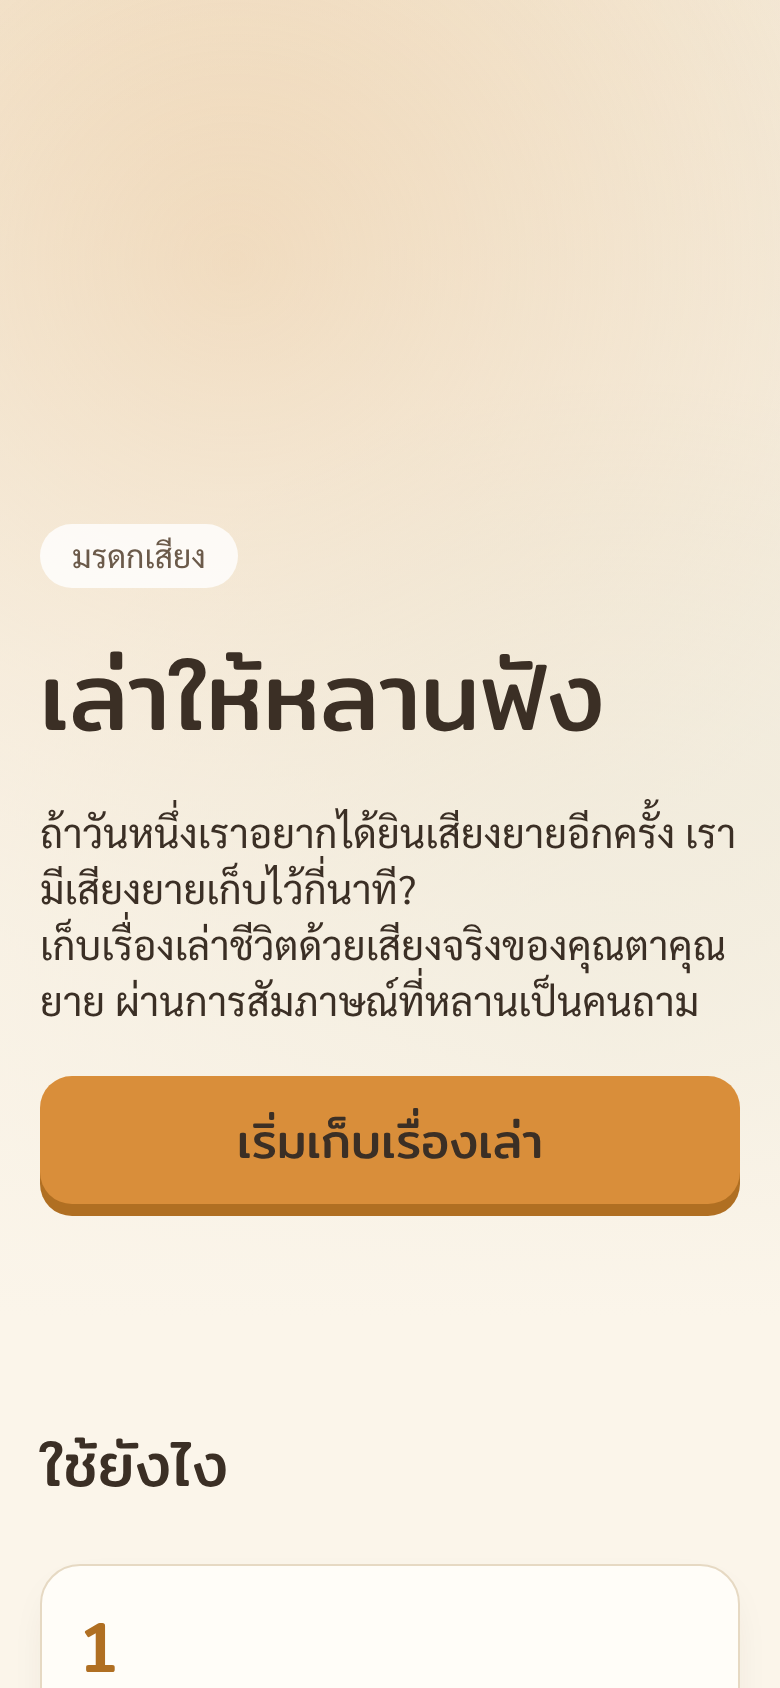
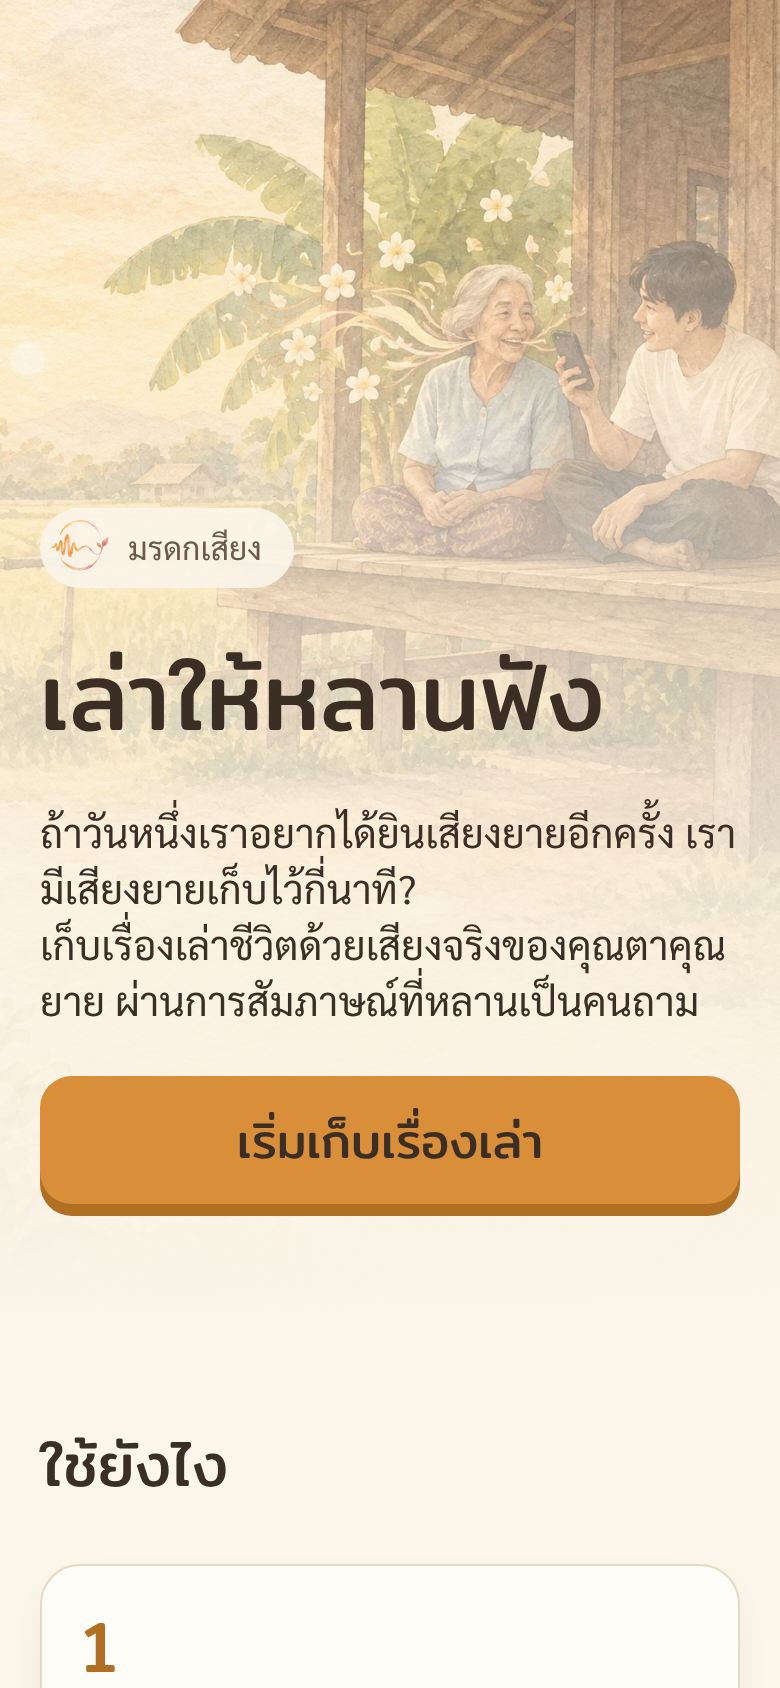
feat: remaining artwork — book cover and all chapter covers; refresh README screenshots

Changed region(s): [[0.0, 0.0, 1.0, 0.4929], [0.0923, 0.0, 0.1231, 0.0308]]

diff --git a/app/b/[token]/BookClient.tsx b/app/b/[token]/BookClient.tsx
@@ -61,7 +61,7 @@ export function BookClient({ book, token, link, qr }: { book: Book; token: strin
   return (
     <main className="pb-16">
       <header className="relative isolate overflow-hidden">
-        <Art src="/art/book-cover.webp" className="!absolute inset-0 -z-10 opacity-60" />
+        <Art src="/art/book-cover.webp" className="!absolute inset-0 -z-10 opacity-60" imgClassName="object-[70%_50%]" />
         <div className="absolute inset-0 -z-10 bg-gradient-to-b from-paper/20 to-paper" />
         <div className="mx-auto flex max-w-2xl flex-col items-center gap-5 px-5 pb-10 pt-16 text-center">
           {storyteller.hasPhoto ? (

diff --git a/README.md b/README.md
@@ -5,9 +5,9 @@
 **Live:** https://moradoksiang.kamnuantech.com (หรือ `มรดกเสียง.kamnuantech.com`)
 **บริบท:** การบ้านรอบสัมภาษณ์ YWC21 สาขา Web Programming — ธีม *Re:Humanize the Web*
 
-| หน้าแรก | ยายกดปุ่มเดียว | กำลังฟังคำตอบ | สมุดชีวิต |
-|---|---|---|---|
-| ![landing](docs/screenshots/01-landing.png) | ![welcome](docs/screenshots/04-welcome.png) | ![listening](docs/screenshots/05-listening.png) | ![book](docs/screenshots/06-book.png) |
+| หน้าแรก | ยายกดปุ่มเดียว | เล่าเรื่องก่อนถาม | กำลังฟังคำตอบ | สมุดชีวิต |
+|---|---|---|---|---|
+| ![landing](docs/screenshots/01-landing.png) | ![welcome](docs/screenshots/04-welcome.png) | ![intro](docs/screenshots/05a-intro.png) | ![listening](docs/screenshots/05-listening.png) | ![book](docs/screenshots/06-book.png) |
 
 ---
 
@@ -28,7 +28,7 @@
 
 **ลูกหลาน** — สร้างสมุดชีวิตใน < 1 นาที · ชุดคำถามเริ่มต้น 10 ข้อ (เบา → ลึก มีเพลงกล่อมลูกคั่นกลาง จบด้วยข้อความถึงอนาคต) หรือเลือกจากคลัง 26 ข้อ / เขียนเอง · เรียงลำดับ · **อัดเสียงตัวเองถามทีละข้อ** · ลิงก์ + QR 3 แบบ (จัดการ / ให้ผู้เล่า / สมุดชีวิต) · ลบข้อมูลทั้งหมด (PDPA)
 
-**ผู้สูงอายุ** — ปุ่มใหญ่ปุ่มเดียว "เริ่มคุยกัน" แล้วคุยต่อเนื่องจนจบ:
+**ผู้สูงอายุ** — ปุ่มใหญ่ปุ่มเดียว "เริ่มคุยกัน" แล้วคุยต่อเนื่องจนจบ เหมือนนั่งคุยกัน ไม่ใช่กรอกแบบสอบถาม: เริ่มด้วยบทเปิด (เสียงหลานอัดเอง หรือเสียงอ่านไทยธรรมชาติจาก Google TTS) มีประโยคเชื่อมก่อนขึ้นบทใหม่ ขอบคุณสั้น ๆ ระหว่างข้อ และบทปิดท้าย →
 เล่นเสียงคำถาม → "ติ๊ง" → อัดอัตโนมัติ → วงกลมเต้นตามเสียง →
 เงียบ 6 วิ ถามเบา ๆ ว่าเล่าต่อไหม · เงียบต่ออีก 8 วิ จบข้อเอง · ไม่พูดเลย 20 วิ ถามซ้ำ 1 ครั้ง →
 อัปโหลดเบื้องหลัง → ข้อต่อไป · ปิดกลางทางแล้วเปิดใหม่ **ต่อจากข้อเดิม** · เน็ตหลุดก็ไม่หาย (เก็บใน IndexedDB แล้ว retry) · กันจอดับ (Wake Lock) · ตัวอักษร ≥ 22px ปุ่มสูง ≥ 72px ไม่มีสีแดง ไม่มีตัวนับเวลากดดัน
